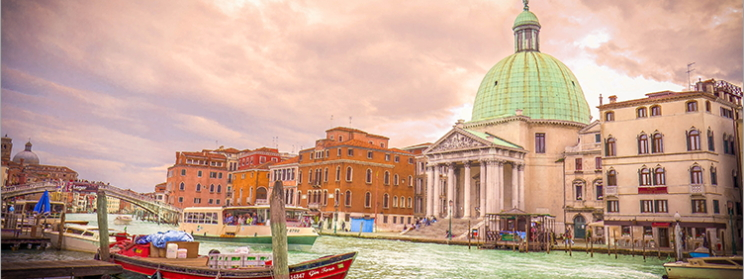
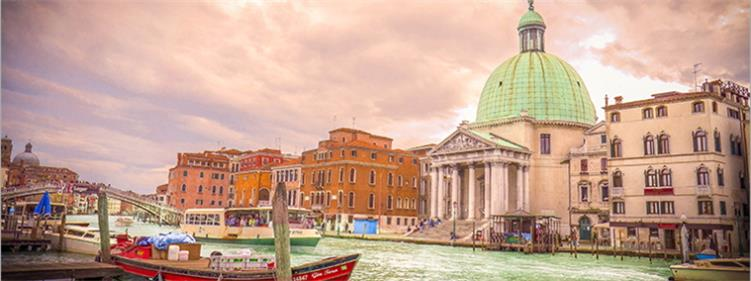
样式小改

diff --git a/src/pages/shop/shop.vue b/src/pages/shop/shop.vue
@@ -3,9 +3,9 @@ div
   my-loading(:showLoading="showLoading")
   div.container.shop-container(v-if="!showLoading")
     div.header-image(:style="topStyle")
-      img(src="__IMAGE__/theme/shop@header.png")
+      img(src="__IMAGE__/theme/shop@header.jpg")
     div.recommend-image(:style="topStyle")
-      img(src="__IMAGE__/theme/recommend.png")
+      img(src="__IMAGE__/theme/recommend.jpg")
     div.top-title(:style="titleStyle")
       p 自营商店
     shop-list(:shops="shops")
